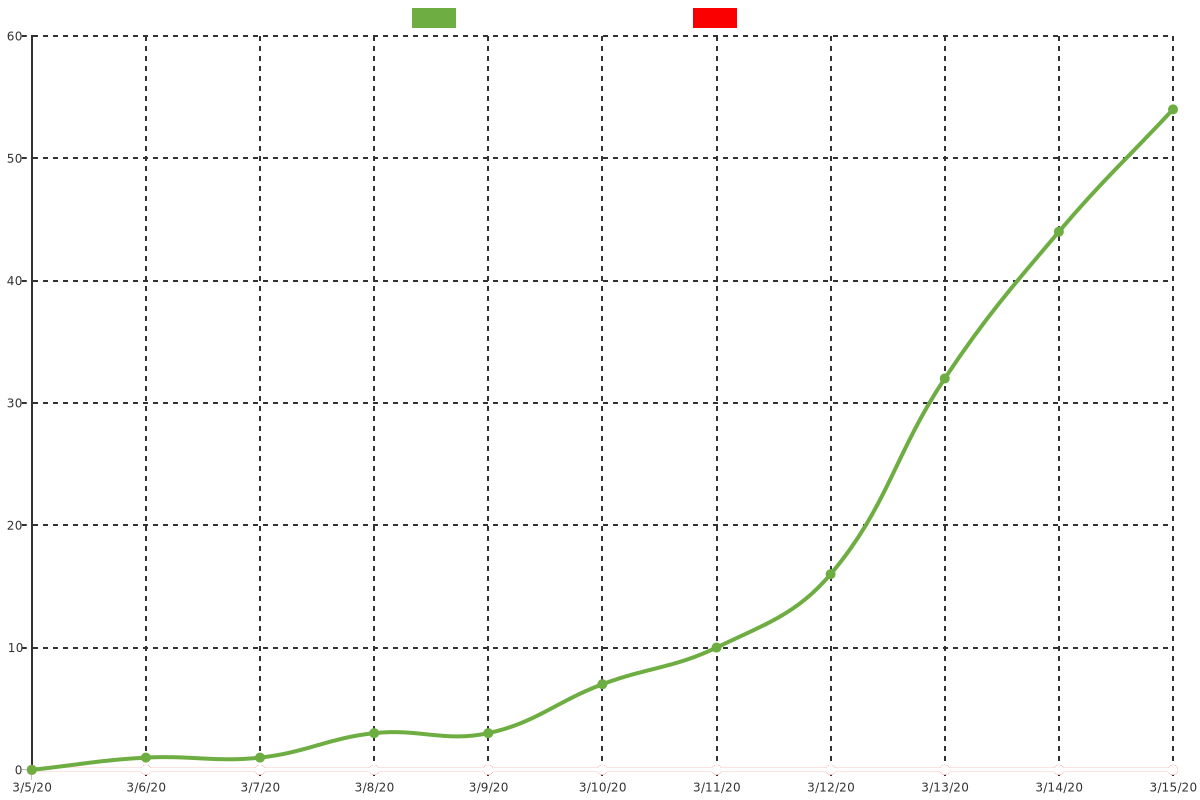
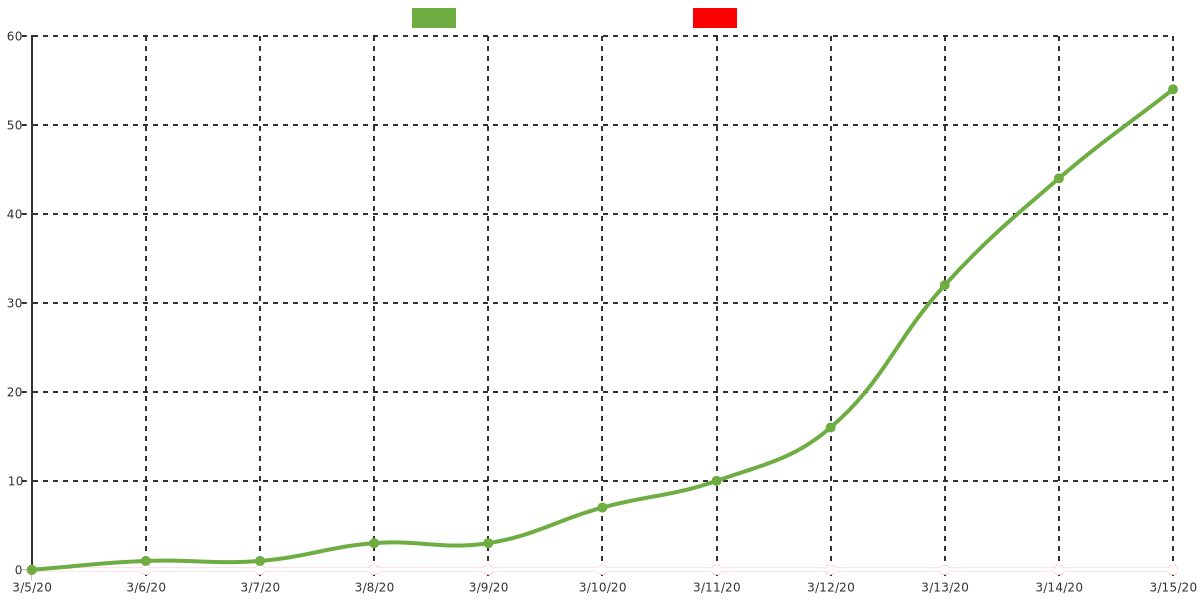
make picture more wider

diff --git a/src/index.js b/src/index.js
@@ -6,7 +6,7 @@ const {drawChart} = require('./chart');
 const {getCsvRowPromise} = require('./csv');
 
 const width = env['COR_WIDTH'] || 1200;
-const height = env['COR_HEIGHT'] || 800;
+const height = env['COR_HEIGHT'] || 600;
 const country = env['COR_COUNTRY'] || 'Slovakia';
 
 
